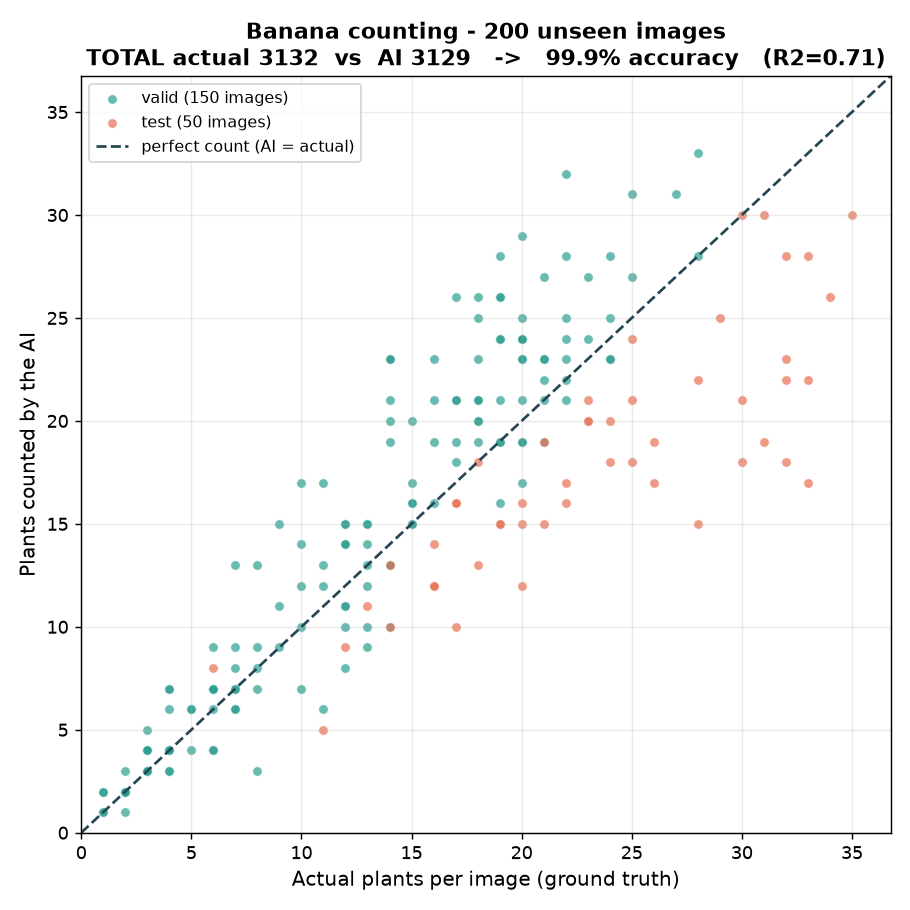
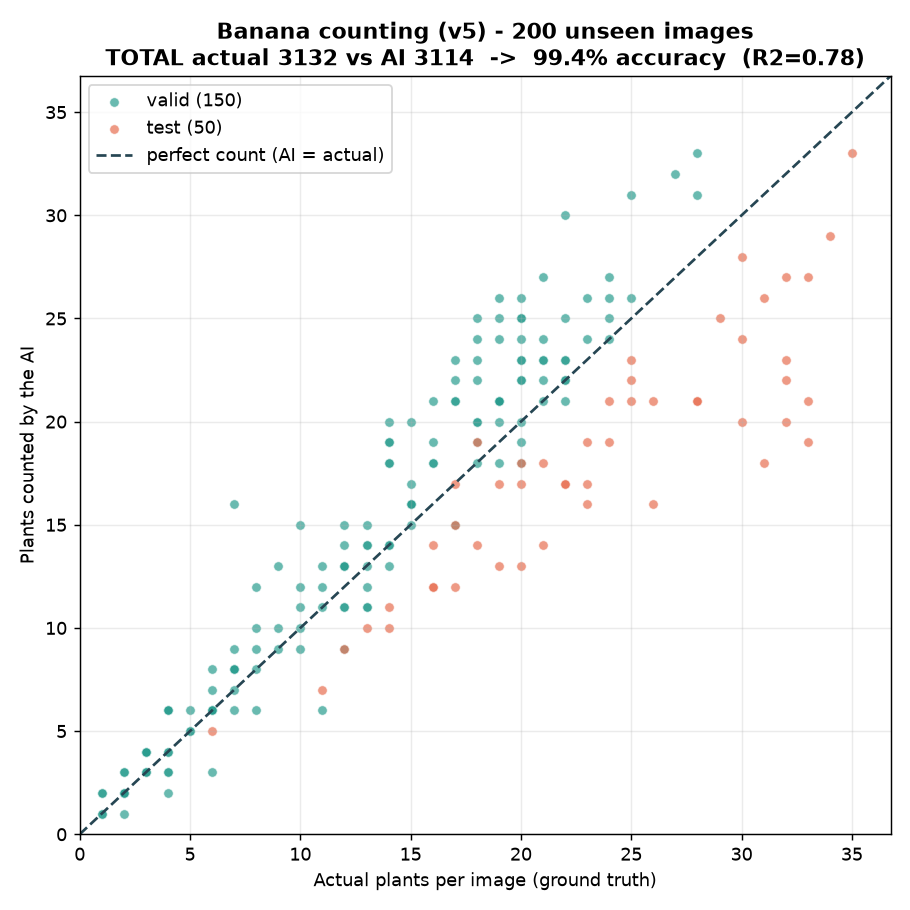
Evidencia visual actualizada al modelo v5

diff --git a/docs/evidence/README.md b/docs/evidence/README.md
@@ -1,6 +1,6 @@
 # Counting evidence — BananaVision
 
-Visual proof of the real `banana_real_v3.pt` model counting banana plants on
+Visual proof of the real `banana_real_v5.pt` model counting banana plants on
 **200 real UAV images the model NEVER saw** (`valid` + `test` splits of the
 count-banana-plants dataset). Fully reproducible with the scripts in `real_data/`.
 
@@ -11,9 +11,9 @@ count-banana-plants dataset). Fully reproducible with the scripts in `real_data/
 Each point is an image (X = real plants, Y = plants counted by the AI). The diagonal
 is a perfect count.
 
-- **TOTAL: 3,132 real plants vs 3,129 counted → 99.9 % in this batch.**
-- **Count accuracy validated by cross-validation (5 folds): 98.0 %** (2.0 % error,
-  range 96.8 %–99.3 %). See `models/registry/real_v3_count_calibration.json`.
+- **TOTAL: 3,132 real plants vs 3,114 counted → 99.4 % in this batch.**
+- **Count accuracy validated by cross-validation (5 folds): 98.3 %** (1.7 % error).
+  See `models/registry/real_v5_count_calibration.json`.
 
 ## 2. Detection on real plants
 
@@ -28,7 +28,7 @@ ranging from sparse to very dense.
 
 - **YES:** the **aggregate crop count over an area** is accurate to ~**98 %**. This is the
   metric a farm needs for its total inventory.
-- **It does NOT** mean detecting 98 % of the plants one by one: the **per-plant recall is ~0.80**.
+- **It does NOT** mean detecting 98 % of the plants one by one: the **per-plant recall is ~0.85**.
   In dense clumps some plants are occluded from an overhead view, unrecoverable in 2D.
 - **Density/domain bias (important and honest):** with a fixed threshold, sparse zones
   **over-count** (~+13 %) and dense zones **under-count** (~−23 %). Over an area of mixed
@@ -47,7 +47,7 @@ CV, out-of-fold):
 | test | 77.1 % | **96.6 %** |
 
 In deployment: label a few images from the target farm and run
-`python real_data/calibrate_count.py --weights models/banana_real_v3.pt --data-root <farm>`.
+`python real_data/calibrate_count.py --weights models/banana_real_v5.pt --data-root <farm>`.
 The true ceiling beyond this is only raised by having **more data from more farms**.
 
 ## Reproducibility